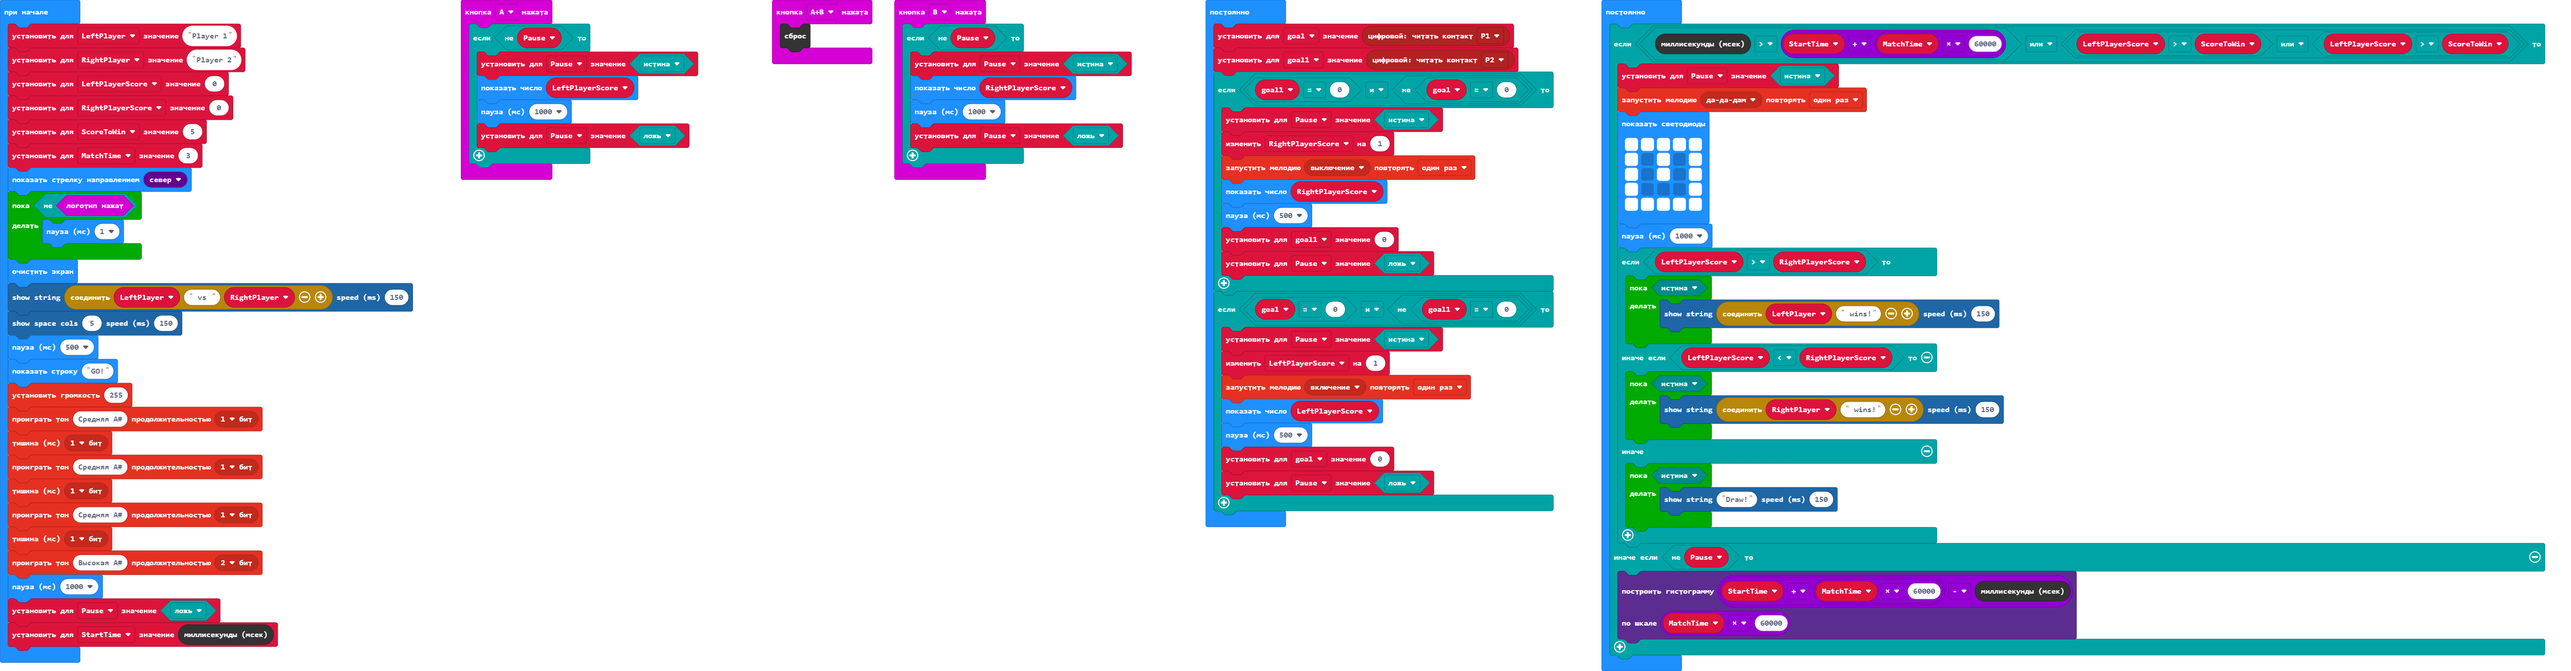
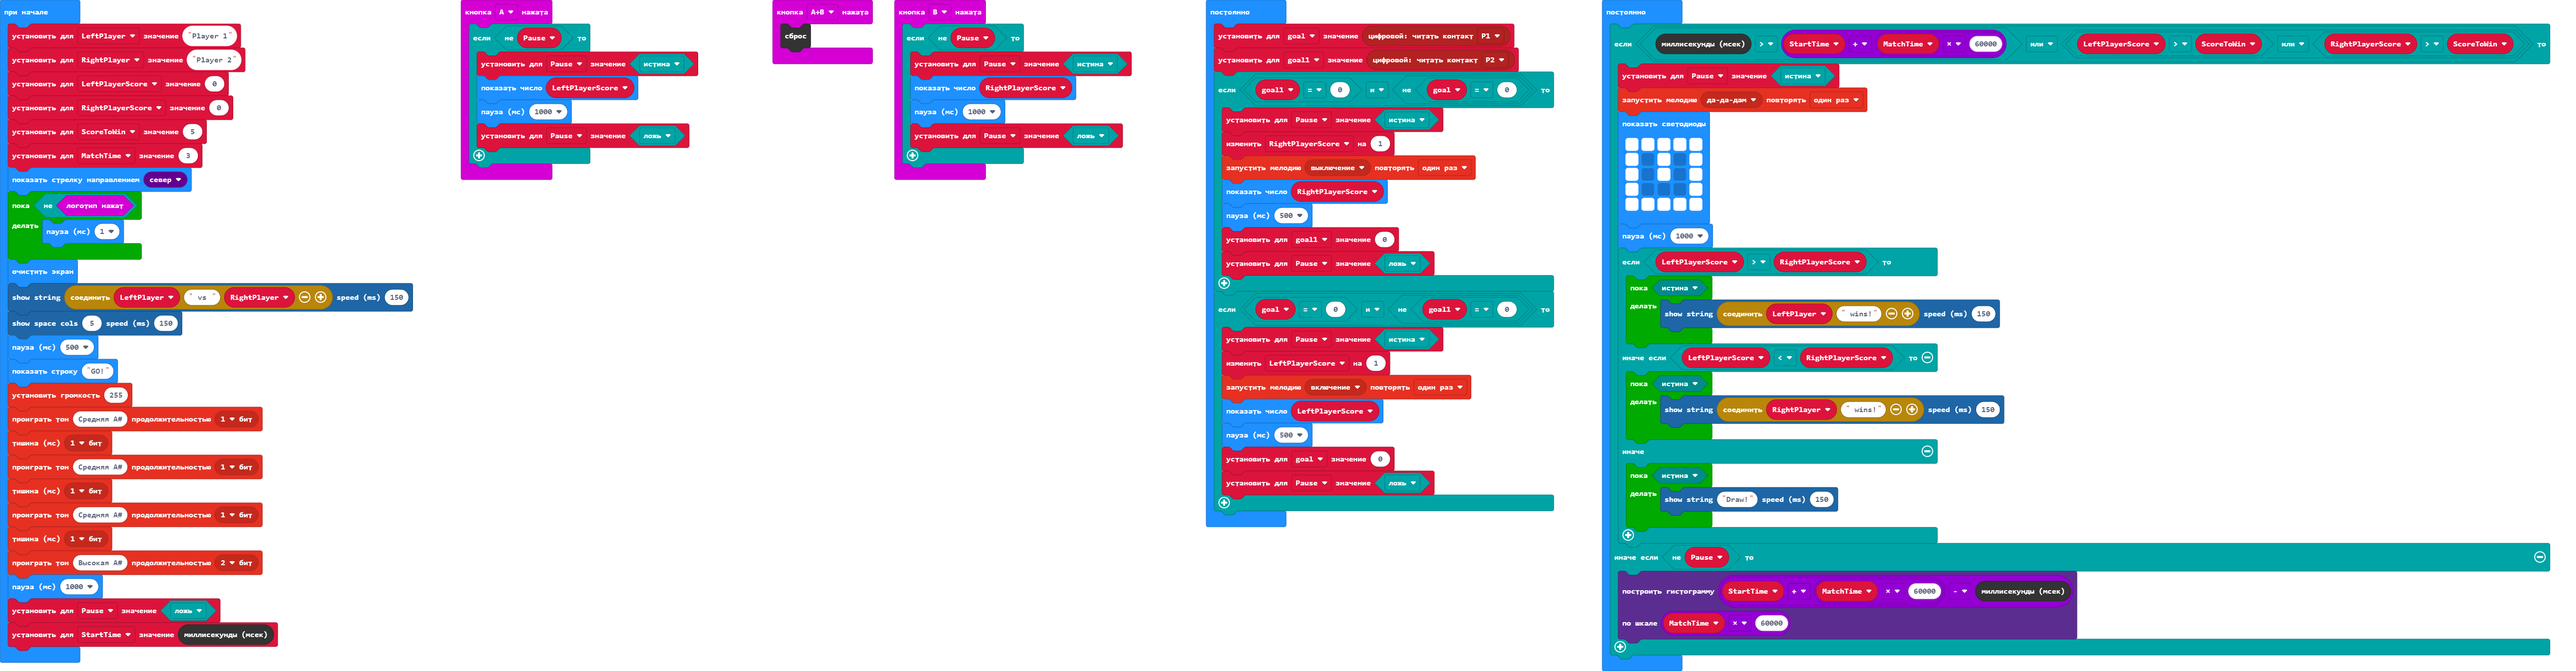
Update main.blocks, main.ts, ru.md

diff --git a/main.ts b/main.ts
@@ -71,7 +71,7 @@ basic.forever(function () {
     }
 })
 basic.forever(function () {
-    if (control.millis() > StartTime + MatchTime * 60000 || (LeftPlayerScore > ScoreToWin || LeftPlayerScore > ScoreToWin)) {
+    if (control.millis() > StartTime + MatchTime * 60000 || (LeftPlayerScore > ScoreToWin || RightPlayerScore > ScoreToWin)) {
         Pause = true
         music.startMelody(music.builtInMelody(Melodies.Dadadadum), MelodyOptions.Once)
         basic.showLeds(`
@@ -97,8 +97,8 @@ basic.forever(function () {
         }
     } else if (!(Pause)) {
         led.plotBarGraph(
-        StartTime + MatchTime * 60000 - control.millis(),
-        MatchTime * 60000
+            StartTime + MatchTime * 60000 - control.millis(),
+            MatchTime * 60000
         )
     }
 })

diff --git a/ru.md b/ru.md
@@ -81,7 +81,7 @@ basic.forever(function () {
     }
 })
 basic.forever(function () {
-    if (control.millis() > StartTime + MatchTime * 60000 || (LeftPlayerScore > ScoreToWin || LeftPlayerScore > ScoreToWin)) {
+    if (control.millis() > StartTime + MatchTime * 60000 || (LeftPlayerScore > ScoreToWin || RightPlayerScore > ScoreToWin)) {
         Pause = true
         music.startMelody(music.builtInMelody(Melodies.Dadadadum), MelodyOptions.Once)
         basic.showLeds(`
